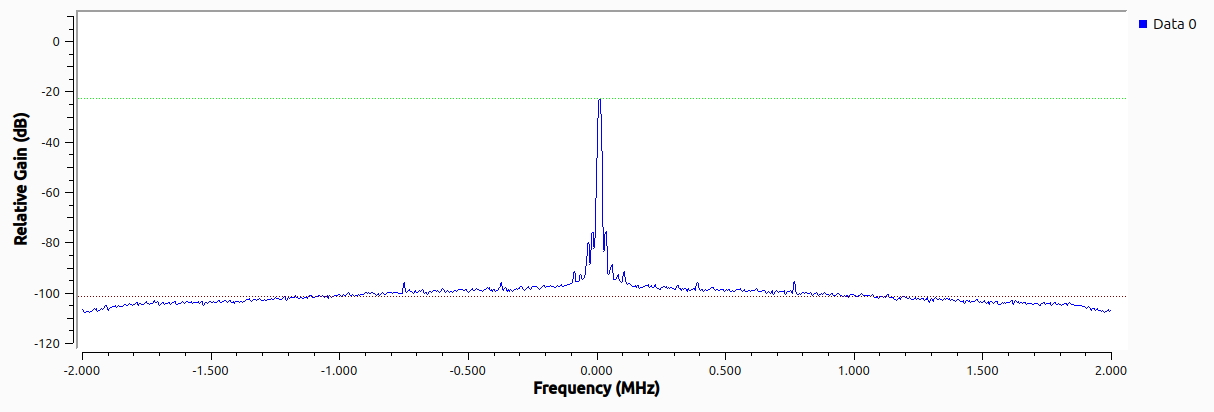
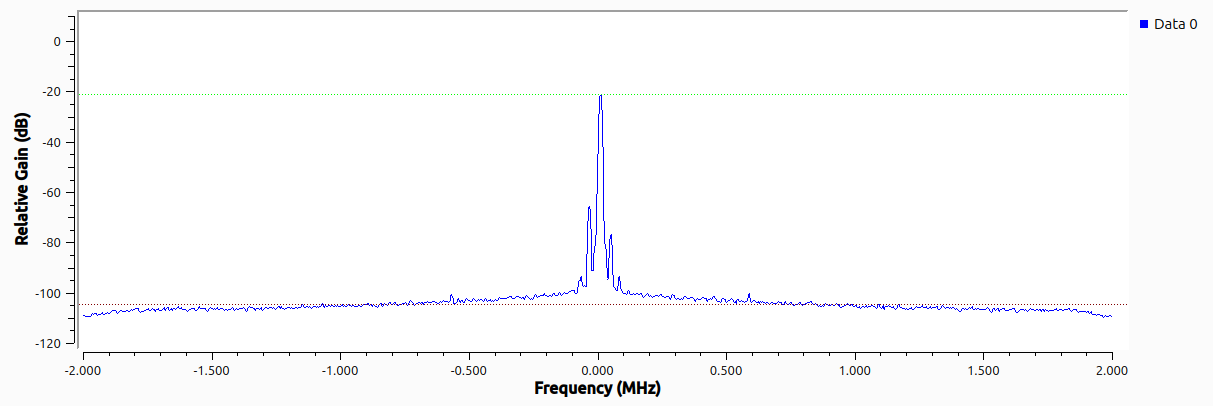
Confirming LO frequency

diff --git a/2/lab_report.tex b/2/lab_report.tex
@@ -324,7 +324,26 @@ In a similar manner, we collect the frequency again using a rectangular window. 
 	\label{fig::gnu_radio_loopback_generic_iio_rect_win}
 \end{figure}
 
-Next, we increase the sample rate to 4 MHz and observe the frequency response. Figure \ref{fig::gnu_radio_loopback_generic_iio_4MSPS} shows the updated frequency response. The updated frequency response has a frequency span of $\pm 2 \text{MHz}$.
+Next, we reduce the LO frequency to 915 MHz and observe the frequency response. 
+Figure \ref{fig::gnu_radio_loopback_generic_iio_915_MHz_lo} shows the updated frequency response.
+
+\begin{figure}[H]
+	\centerline{\fbox{\includegraphics[width=0.8\textwidth]{gnu_radio_loopback_generic_iio_915_MHz_lo.png}}}
+	\caption{Frequency Response when LO Frequency is Changed to 915 MHz}
+	\label{fig::gnu_radio_loopback_generic_iio_915_MHz_lo}
+\end{figure}
+
+Note that the update frequency response is approximately the same because we are performing baseband. However, we can confirm the LO frequency change with \texttt{iio\_attr} commands as shown in Figure \ref{fig::iio_attr_confirm_lo_frequency}.
+
+\begin{figure}[H]
+	\centerline{\fbox{\includegraphics[width=0.5\textwidth]{iio_attr_confirm_lo_frequency.png}}}
+	\caption{Confirming a 915MHz LO Frequency with the \texttt{iio\_attr} commands}
+	\label{fig::iio_attr_confirm_lo_frequency}
+\end{figure}
+
+Note that the \texttt{altvoltage0} channel gives us the \texttt{RX\_LO} frequency, while the \texttt{altvoltage1} channel gives us the \texttt{TX\_LO} frequency.
+
+After updating the LO frequency, we also increase the sample rate to 4 MHz. The updated frequency responds is shown in Figure \ref{fig::gnu_radio_loopback_generic_iio_4MSPS} and has a frequency span of $\pm 2 \text{MHz}$.
 
 \begin{figure}[H]
 	\centerline{\fbox{\includegraphics[width=0.8\textwidth]{gnu_radio_loopback_generic_iio_4MSPS.png}}}
@@ -332,7 +351,7 @@ Next, we increase the sample rate to 4 MHz and observe the frequency response. F
 	\label{fig::gnu_radio_loopback_generic_iio_4MSPS}
 \end{figure}
 
-We can also confirm these settings using the \texttt{iio\_attr} commands shown in Figure \ref{fig::iio_attr_confirm_sampling_rate}.
+In a similar manner to what was shown above, we confirm the updated sampling rate using the \texttt{iio\_attr} commands shown in Figure \ref{fig::iio_attr_confirm_sampling_rate}.
 
 \begin{figure}[H]
 	\centerline{\fbox{\includegraphics[width=0.5\textwidth]{iio_attr_confirm_sampling_rate.png}}}
